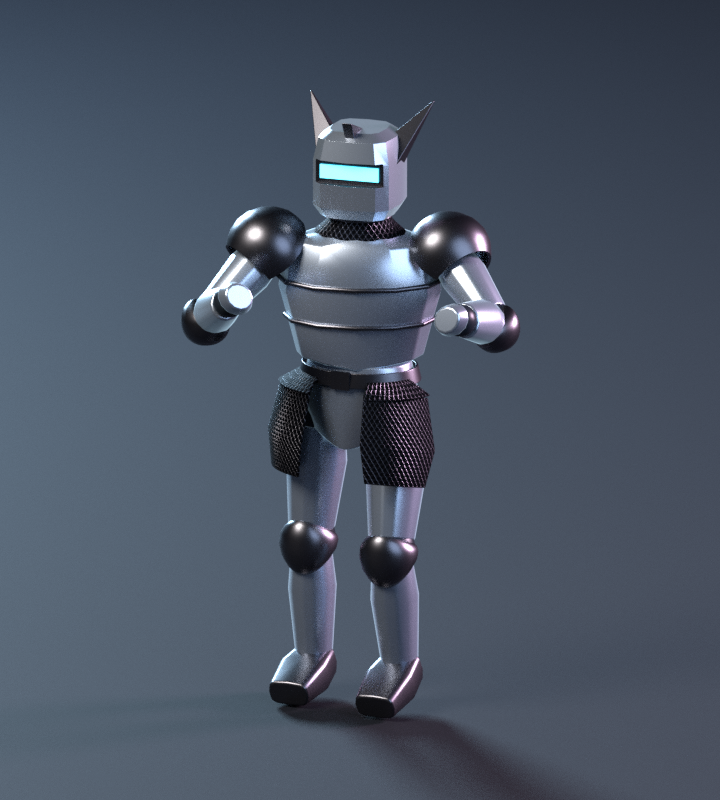
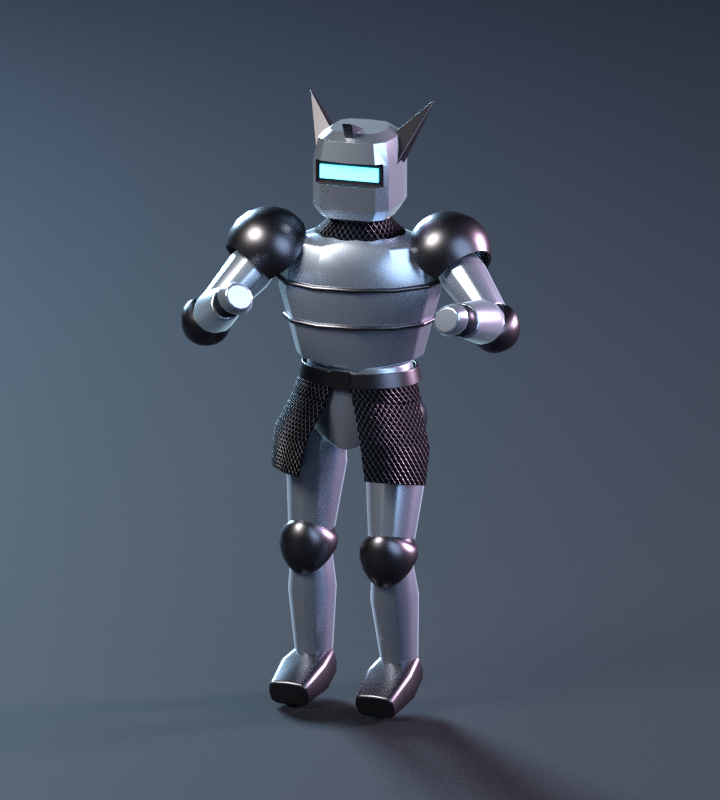
feat: hug the mail skirts to the hips with even widths
Run the mail skirts' upper band down 1.5 cm off the hip armor instead of
flaring right under the belt, leaving room for a scabbard, and move the
hinge seam and hip_plate bones in to match. Size each row by its width
around the hips (22.7 cm from the belt to z 0.853, 19.4 cm at the hem)
and lay the mail UVs out by true arc length.

Changed region(s): [[0.4889, 0.4688, 0.6111, 0.625], [0.3667, 0.4375, 0.4583, 0.5938]]

diff --git a/dev-samples/3d-stage1/rigged-armor/build.py b/dev-samples/3d-stage1/rigged-armor/build.py
@@ -30,7 +30,7 @@ for side, sign in [('L', 1), ('R', -1)]:
         f'shin.{side}': ((sign*.15, -.025, .52), (sign*.15, 0, .12), f'thigh.{side}'),
         f'foot.{side}': ((sign*.15, 0, .12), (sign*.15, -.20, .065), f'shin.{side}'),
         # Hinge at the top of the lower diagonal waist plate; driven by the thigh.
-        f'hip_plate.{side}': ((sign*.19, -.122, .997), (sign*.19, -.122, .741), 'pelvis'),
+        f'hip_plate.{side}': ((sign*.148, -.094, .985), (sign*.148, -.094, .741), 'pelvis'),
     })
 
 
@@ -534,22 +534,50 @@ def diagonal_waist_plates(rig, mat):
     swings on hip_plate so a raised thigh does not pass through it.
     """
     # Arc centered 50 degrees away from the front, wrapping toward the side.
+    # The upper band hangs from inside the belt and runs down close to the
+    # hip armor (1.5 cm off it), so nothing bulges out at the belt where a
+    # scabbard would hang; the lower part then flares gently to clear the
+    # thighs. Rows are (z, half-width, half-depth, width around the hips):
+    # 22.7 cm, like a rectangle, from the belt down to z 0.853, then
+    # narrowing to 19.4 cm at the hem.
+    hip_w, hip_d = hip_radius(.975)
     parts = [('Diagonal waist plate', 'pelvis',
               # Top edge on the belt's centerline, hidden inside it.
-              [(BELT_Z, BELT_RX, BELT_RY, 24), (.997, .25, .19, 29)]),
+              [(BELT_Z, BELT_RX, BELT_RY, .227), (.975, hip_w + .015, hip_d + .015, .227)]),
              ('Diagonal waist plate lower', 'hip_plate',
-              [(1.009, .238, .178, 29), (.853, .28, .21, 29), (.741, .27, .20, 24)])]
+              # Top edge tucked 1 cm up inside the upper band, leaving room
+              # below the belt for the edge to rise as the plate swings.
+              [(.985, .193, .146, .227), (.853, .26, .195, .227), (.741, .27, .20, .194)])]
+
+    def arc_row(radius_x, radius_y, width):
+        """13 angles (radians) on the ellipse spanning `width` around it,
+        centered 50 degrees from the front, with arc lengths from the center."""
+        def point(angle):
+            return Vector((radius_x * math.sin(angle), -radius_y * math.cos(angle)))
+
+        def length(half):
+            steps = [math.radians(50) + half * (2 * k / 200 - 1) for k in range(201)]
+            return sum((point(b) - point(a)).length for a, b in zip(steps, steps[1:]))
+        low, high = 0, math.pi / 2
+        for _ in range(40):
+            half = (low + high) / 2
+            low, high = (half, high) if length(half) < width else (low, half)
+        angles = [math.radians(50) + half * (2 * i / 12 - 1) for i in range(13)]
+        arcs = [0]
+        for a, b in zip(angles, angles[1:]):
+            arcs.append(arcs[-1] + (point(b) - point(a)).length)
+        return angles, [s - arcs[6] for s in arcs]
     for side, sign in (('L', 1), ('R', -1)):
         for name, bone_name, rows in parts:
             vertices, uvs = [], []
-            for z, radius_x, radius_y, half_angle in rows:
-                for i in range(13):
-                    angle = math.radians(50 + half_angle * (2 * i / 12 - 1))
+            for z, radius_x, radius_y, width in rows:
+                angles, arcs = arc_row(radius_x, radius_y, width)
+                for angle, arc in zip(angles, arcs):
                     vertices.append((sign * radius_x * math.sin(angle),
                                      -radius_y * math.cos(angle), z))
                     # Arc length and height in meters, shared by both parts
                     # so the mail pattern runs on across the seam.
-                    uvs.append((sign * (angle - math.radians(50)) * .25, z))
+                    uvs.append((sign * arc, z))
             faces = []
             for row in range(len(rows) - 1):
                 for i in range(12):

diff --git a/dev-samples/3d-stage1/rigged-armor/README.md b/dev-samples/3d-stage1/rigged-armor/README.md
@@ -57,14 +57,17 @@ Rotation で回転させる。回転はボーンのローカル座標。
 左右の斜め前には、このベルトから下げた黒い鉄の鎖帷子を追加している。
 鎖帷子の上端はベルトの芯の位置にあり、ベルトの内側から垂れて見える。
 輪が互い違いに重なる模様は、UV 上のノード計算による凹凸と色で表している。
-正面から左右50度の位置を中心に側面へ回り込み、中央を広く空けた形状。
+正面から左右50度の位置を中心に側面へ回り込む。周方向の幅は、ベルトから z 0.853 までは
+22.7cm の長方形で、裾で19.4cmに狭まる。ベルトから z 0.975 までは腰甲の表面から1.5cm外に
+沿って下り、ベルトの所で横に張り出さない（剣の鞘を下げる余地を残す）。そこから裾へなだらかに広がる。
 鎖帷子は上下2枚に分かれる。上の帯は骨盤に固定し、下の板は上の帯の内側に
 上端を差し込み、`hip_plate` ボーンで上端を軸に回る。太ももを前に上げると
 同じ角度だけ前に振れ、後ろに引いたときは垂れたまま動かない。
 腰の金色のリングは設けず、腰甲の上端をその高さまで伸ばしている。
 腰甲の下端はブリーフ型で、前後の中央は股（z 0.82）まで下がって太ももの間で細くなり、
 左右は脚の付け根の高さに残って脚の出口が弧を描く。断面を32角にして、股を丸いU字にしている。
-太ももを前に約90度上げると、上の帯と太ももの板が少し干渉する。
+太ももを前に45度までは鎖帷子に当たらず、約60度から下の板が太ももの板・腰甲・ベルトに当たる。
+下の板の脇の端は、太ももを前に約30度以上上げると股関節の暗い球にわずかに入り込む。
 
 タイムラインのマーカーでサンプルのポーズを選べる。
 
